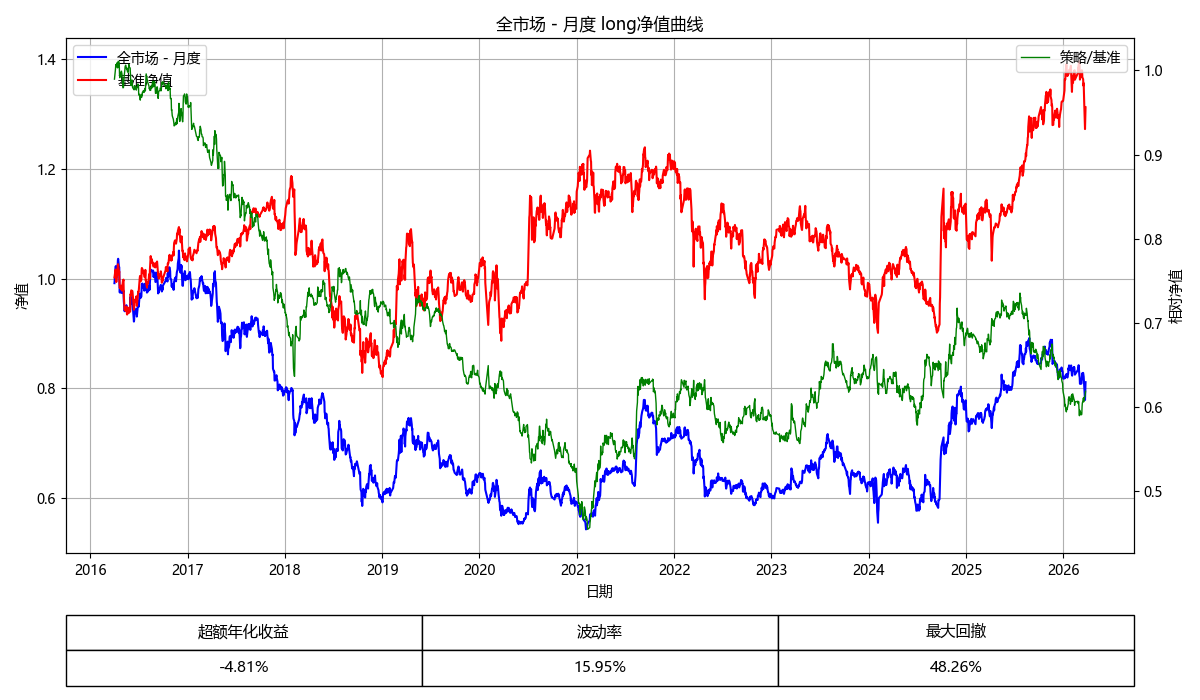
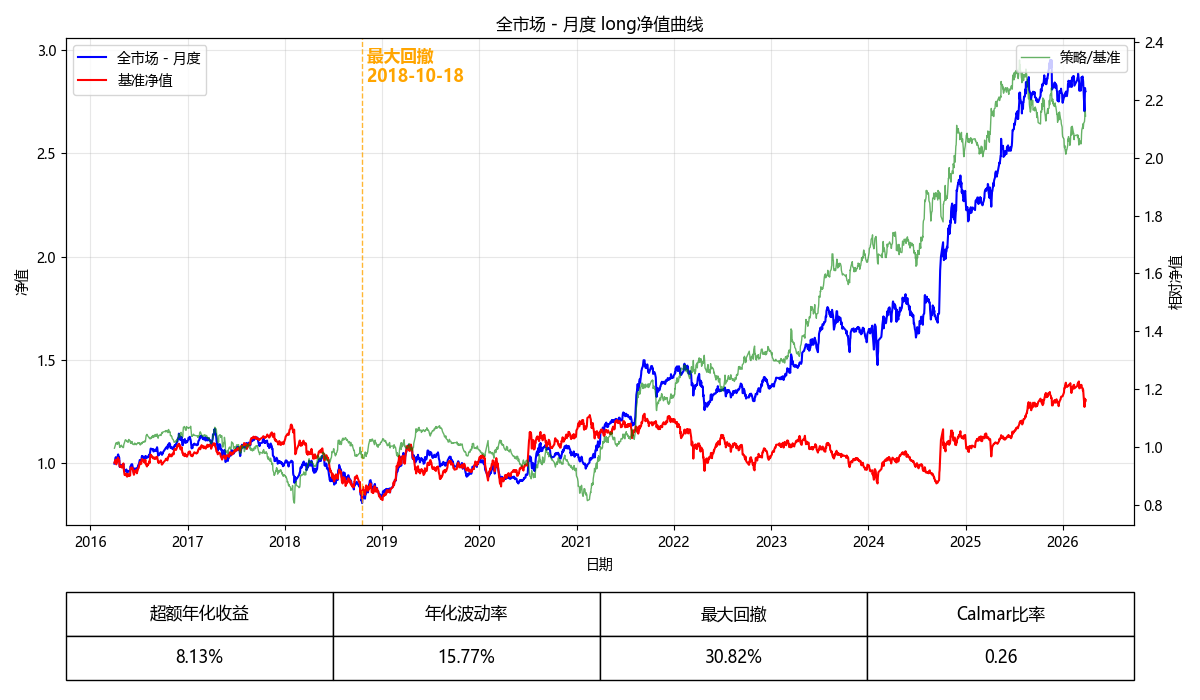
将spec_vol中的滑点设置为0

diff --git a/spec_vol/main.py b/spec_vol/main.py
@@ -33,13 +33,13 @@ def main():
     evaluate_factor(factor_table=factor_table, fac_freq='日度', bench_index='000002.SH')
 
     # print("\n模拟交易...")
-    # simulate_trade(factor_table=factor_table, fac_freq='月度', n_top=5, factor_direction='小',slippage_rate = 0.005)
+    # simulate_trade(factor_table=factor_table, fac_freq='月度', n_top=5, factor_direction='小', slippage_rate=0.5)
 
 if __name__ == '__main__':
     # main()
     # group_plot('全市场', '月度', 'short', factor_table)
     # ic_plot('全市场', '月度', factor_table)
-    ic_half_life(factor_table=factor_table, max_lag=200)
-
+    # ic_half_life(factor_table=factor_table, max_lag=200)
+    simulate_trade(factor_table=factor_table, trade_freq='月度', n_top=5, is_ascending=True, slippage_rate=0)
     # evaluate_factor_pathways(factor_table=factor_table, trade_freq='月度', n_pathways=20, line='short', sample='全市场')
     # pathway_plot('全市场', '月度', 'short', factor_table)

diff --git a/f1/main.py b/f1/main.py
@@ -37,7 +37,7 @@ def main():
 
     # 6. 因子评测
     print("\n因子评测...")
-    simulate_trade(factor_table='f1', fac_freq='月度', n_top=5, factor_direction='大', slippage_rate=0.005)
+    simulate_trade(factor_table='f1', fac_freq='月度', n_top=5, factor_direction='大', slippage_rate=0.5)
 
 
 if __name__ == '__main__':
